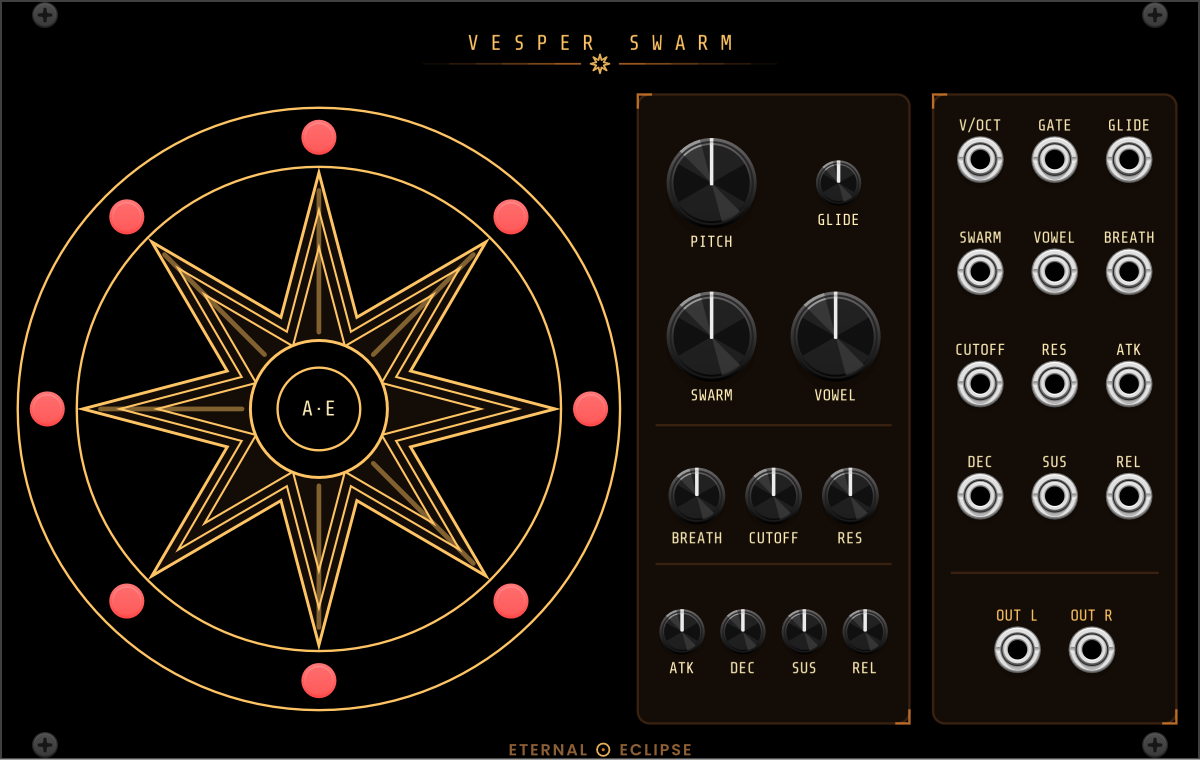
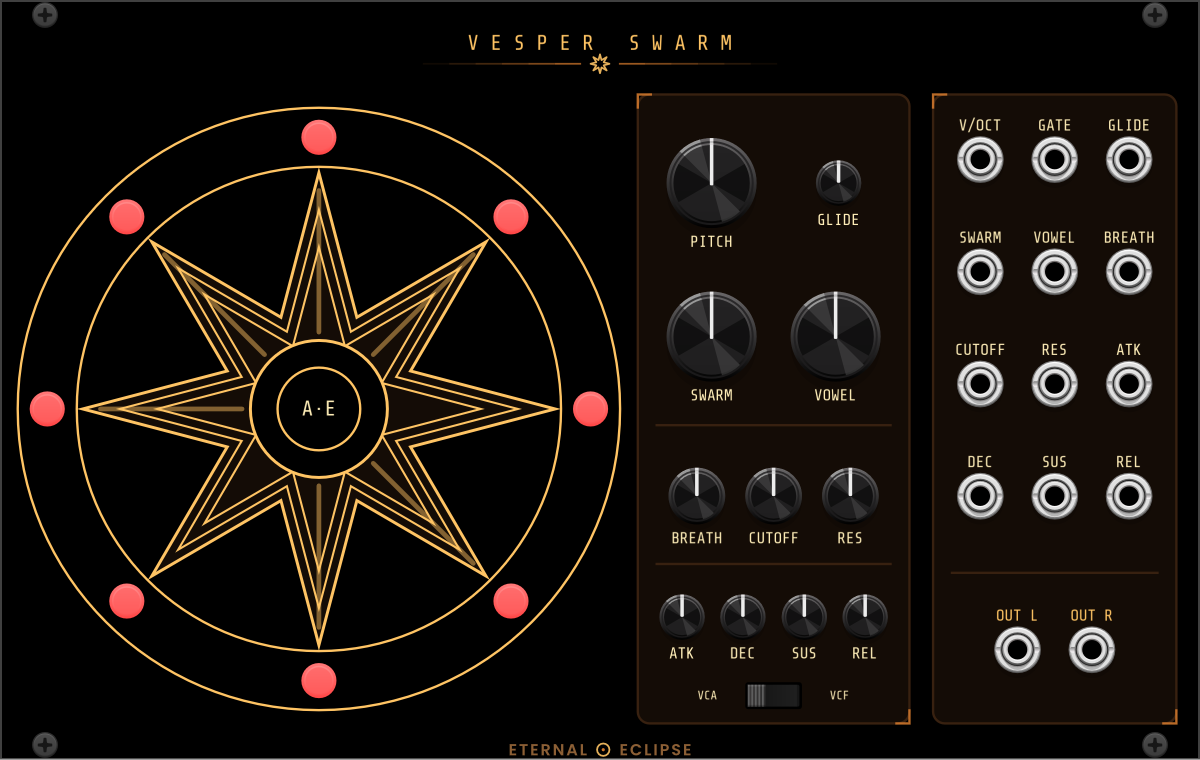
Vesper Swarm: envelope to VCA or VCF, attack to 60 s (OMN-106)
A VCA / VCF switch under the envelope row points the ADSR at the level, as
before, or at the filter instead: there the envelope lifts the cutoff by up
to seven octaves above the CUTOFF setting while the choir holds its level,
so a gate sweeps the filter over a drone. The attack knob now runs 1 ms to
60 s for slow swells (decay and release stay at 10 s). The harness checks
the filter mode opens on the gate, closes after it, and keeps sounding.

Changed region(s): [[0.5242, 0.7868, 0.74, 0.9382], [0.6783, 0.9079, 0.7092, 0.9382]]

diff --git a/src/VesperSwarm/VesperSwarm.cpp b/src/VesperSwarm/VesperSwarm.cpp
@@ -38,6 +38,7 @@ struct VesperSwarm : Module {
 		DECAY_PARAM,
 		SUSTAIN_PARAM,
 		RELEASE_PARAM,
+		ENV_DEST_PARAM,
 		ENUMS(VOICE_PARAMS, VOICES),
 		PARAMS_LEN
 	};
@@ -98,10 +99,12 @@ struct VesperSwarm : Module {
 		configParam(BREATH_PARAM, 0.f, 1.f, 0.2f, "Breath", "%", 0.f, 100.f);
 		configParam(CUTOFF_PARAM, 0.f, 1.f, 1.f, "Cutoff", " Hz", 1024.f, 20.f);
 		configParam(RES_PARAM, 0.f, 1.f, 0.f, "Resonance", "%", 0.f, 100.f);
-		configParam(ATTACK_PARAM, 0.f, 1.f, 0.55f, "Attack", " ms", 10000.f, 1.f);
+		configParam(ATTACK_PARAM, 0.f, 1.f, 0.455f, "Attack", " ms", 60000.f, 1.f);
 		configParam(DECAY_PARAM, 0.f, 1.f, 0.5f, "Decay", " ms", 10000.f, 1.f);
 		configParam(SUSTAIN_PARAM, 0.f, 1.f, 1.f, "Sustain", "%", 0.f, 100.f);
 		configParam(RELEASE_PARAM, 0.f, 1.f, 0.65f, "Release", " ms", 10000.f, 1.f);
+		configSwitch(ENV_DEST_PARAM, 0.f, 1.f, 0.f, "Envelope destination",
+			{"VCA: the envelope shapes the level", "VCF: the envelope opens the filter, the level stays up"});
 		for (int i = 0; i < VOICES; i++)
 			configSwitch(VOICE_PARAMS + i, 0.f, 1.f, 1.f, string::f("Singer %d", i + 1), {"Silent", "Singing"});
 
@@ -149,7 +152,10 @@ struct VesperSwarm : Module {
 		return vesper::clampf(v, lo, hi);
 	}
 
-	// Envelope knobs: 1 ms .. 10 s
+	// Envelope knobs: attack 1 ms .. 60 s, decay and release 1 ms .. 10 s
+	static float attackSeconds(float x) {
+		return 0.001f * std::pow(60000.f, x);
+	}
 	static float envSeconds(float x) {
 		return 0.001f * std::pow(10000.f, x);
 	}
@@ -192,21 +198,23 @@ struct VesperSwarm : Module {
 			+ vesper::clampf(inputs[CUTOFF_INPUT].getVoltage(), -10.f, 10.f);
 		prm.cutoff = vesper::clampf(20.f * std::exp2(cutoffExp), 20.f, std::min(20000.f, sr * 0.45f));
 		prm.res = knobCv(RES_PARAM, RES_INPUT, 0.f, 1.f);
-		prm.attack = envSeconds(knobCv(ATTACK_PARAM, ATTACK_INPUT, 0.f, 1.f));
+		prm.attack = attackSeconds(knobCv(ATTACK_PARAM, ATTACK_INPUT, 0.f, 1.f));
 		prm.decay = envSeconds(knobCv(DECAY_PARAM, DECAY_INPUT, 0.f, 1.f));
 		prm.sustain = knobCv(SUSTAIN_PARAM, SUSTAIN_INPUT, 0.f, 1.f);
 		prm.release = envSeconds(knobCv(RELEASE_PARAM, RELEASE_INPUT, 0.f, 1.f));
+		prm.envToFilter = params[ENV_DEST_PARAM].getValue() > 0.5f;
 
 		choir.setBlock(prm, sr);
 
-		float env = choir.env.level;
+		// With the envelope on the filter the level is always up
+		float amp = prm.envToFilter ? 1.f : choir.env.level;
 		dispVowel.store(prm.vowel, std::memory_order_relaxed);
 		dispMask.store(mask, std::memory_order_relaxed);
 		for (int i = 0; i < VOICES; i++) {
 			bool on = (mask >> i) & 1u;
-			float lvl = on ? vesper::clampf(choir.voicePeak[i] * env * 2.f, 0.f, 1.f) : 0.f;
+			float lvl = on ? vesper::clampf(choir.voicePeak[i] * amp * 2.f, 0.f, 1.f) : 0.f;
 			dispLevel[i].store(lvl, std::memory_order_relaxed);
-			lights[VOICE_LIGHTS + i].setBrightness(on ? (env > 0.01f ? 1.f : 0.25f) : 0.f);
+			lights[VOICE_LIGHTS + i].setBrightness(on ? (amp > 0.01f ? 1.f : 0.25f) : 0.f);
 		}
 	}
 
@@ -347,9 +355,12 @@ struct VesperSwarmWidget : ModuleWidget {
 		                          VesperSwarm::SUSTAIN_PARAM, VesperSwarm::RELEASE_PARAM};
 		static const char* EL[4] = {"ATK", "DEC", "SUS", "REL"};
 		for (int i = 0; i < 4; i++) {
-			addParam(createParamCentered<RoundSmallBlackKnob>(mm2px(Vec(EX[i], 107.f)), module, EP[i]));
-			addLabel(Vec(EX[i], 113.2f), EL[i]);
+			addParam(createParamCentered<RoundSmallBlackKnob>(mm2px(Vec(EX[i], 104.5f)), module, EP[i]));
+			addLabel(Vec(EX[i], 110.7f), EL[i]);
 		}
+		addParam(createParamCentered<eclipse::CKSSHorizontal>(mm2px(Vec(131.f, 117.8f)), module, VesperSwarm::ENV_DEST_PARAM));
+		addLabel(Vec(119.8f, 117.8f), "VCA", eclipse::FINE_SIZE);
+		addLabel(Vec(142.2f, 117.8f), "VCF", eclipse::FINE_SIZE);
 
 		// ===== Bay =====
 		addBayInput(BAY_C0, 0, "V/OCT", VesperSwarm::VOCT_INPUT, module);

diff --git a/src/VesperSwarm/dsp/Choir.hpp b/src/VesperSwarm/dsp/Choir.hpp
@@ -28,6 +28,7 @@ struct ChoirParams {
 	float cutoff = 20000.f; // Hz
 	float res = 0.f;        // 0..1
 	float attack = 0.15f, decay = 0.1f, sustain = 1.f, release = 0.4f; // s
+	bool envToFilter = false; // ADSR opens the filter instead of the amp
 };
 
 // Eight voices -> stereo mix -> 4-pole lowpass -> ADSR. Output in +/-1 units.
@@ -41,12 +42,15 @@ struct Choir {
 	corona::OtaFilter fltL, fltR;
 	uint8_t mask = 0xFF;
 	bool gate = true;
+	bool envToFilter = false;
 	float mixGain = 0.f;
 	float rawPeak = 0.f; // pre-clip peak since the last read
 
 	// Mix level: eight incoherent voices normalised by sqrt(count), then
 	// brought up to a healthy modular level before the safety clipper.
 	static constexpr float MAKEUP = 1.6f;
+	// Envelope -> filter: full envelope lifts the cutoff this many octaves
+	static constexpr float ENV_OCTAVES = 7.f;
 
 	Choir() {
 		for (int i = 0; i < VOICES; i++) {
@@ -90,7 +94,11 @@ struct Choir {
 		}
 		mixGain = active > 0 ? MAKEUP / std::sqrt((float)active) : 0.f;
 		env.setBlock(p.attack, p.decay, p.sustain, p.release, 1.f / sampleRate);
-		coeffs.update(p.cutoff, p.res, sampleRate);
+		envToFilter = p.envToFilter;
+		float cutoff = p.cutoff;
+		if (envToFilter)
+			cutoff = clampf(cutoff * std::exp2(ENV_OCTAVES * env.level), 20.f, sampleRate * 0.45f);
+		coeffs.update(cutoff, p.res, sampleRate);
 	}
 
 	void process(float& l, float& r) {
@@ -111,8 +119,10 @@ struct Choir {
 		sl = fltL.process(sl, coeffs, true);
 		sr = fltR.process(sr, coeffs, true);
 		float e = env.process(gate);
-		sl *= e;
-		sr *= e;
+		if (!envToFilter) {
+			sl *= e;
+			sr *= e;
+		}
 		float pk = std::fmax(std::fabs(sl), std::fabs(sr));
 		if (pk > rawPeak)
 			rawPeak = pk;

diff --git a/tools/vesper_harness.cpp b/tools/vesper_harness.cpp
@@ -152,6 +152,44 @@ int main() {
 		}
 	}
 
+	// ---- Envelope on the filter: level stays up, cutoff sweeps, stays finite ----
+	{
+		vesper::Choir choir;
+		vesper::ChoirParams p;
+		p.envToFilter = true;
+		p.cutoff = 80.f;
+		p.res = 0.8f;
+		p.attack = 0.05f;
+		p.decay = 0.1f;
+		p.sustain = 0.2f;
+		p.release = 0.1f;
+		float early = 0.f, late = 0.f;
+		int n = (int)(1.0f * RATE);
+		double accE = 0.0, accL = 0.0;
+		for (int i = 0; i < n; i++) {
+			p.gate = i < (int)(0.5f * RATE);
+			if (i % vesper::BLOCK == 0)
+				choir.setBlock(p, RATE);
+			float l, r;
+			choir.process(l, r);
+			if (!std::isfinite(l) || !std::isfinite(r)) {
+				std::printf("FAIL: non-finite with envelope on the filter\n");
+				return 1;
+			}
+			if (i >= (int)(0.04f * RATE) && i < (int)(0.08f * RATE))
+				accE += l * l;
+			if (i >= (int)(0.9f * RATE))
+				accL += l * l;
+		}
+		early = (float)std::sqrt(accE / (0.04f * RATE));
+		late = (float)std::sqrt(accL / (0.1f * RATE));
+		std::printf("env->vcf: open %.1f dB, closed (0.4 s after release) %.1f dB, still sounding\n", db(early), db(late));
+		if (late < 1e-4f || early < late) {
+			std::printf("FAIL: envelope on the filter\n");
+			return 1;
+		}
+	}
+
 	// ---- Voice toggling: no voices = silence, one voice = sound ----
 	{
 		vesper::Choir choir;

diff --git a/README.md b/README.md
@@ -227,8 +227,11 @@ Every voice is a band-limited glottal pulse through a five-formant soprano
 filter bank. VOWEL morphs the bank through A, E, I, O and U, with the current
 vowel shown in the heart of the star; BREATH mixes air into the throat. The
 mix passes a saturating 4-pole lowpass (CUTOFF, RES) and a gate-driven ADSR
-(ATK, DEC, SUS, REL). While GATE is unpatched the choir drones; patch a gate
-and the vibrato develops afresh on every note. GLIDE slews the pitch for the
+(ATK, DEC, SUS, REL) whose attack runs out to a full minute for slow swells.
+The VCA / VCF switch points the envelope at the level, or at the filter
+instead, where it lifts the cutoff by up to seven octaves while the choir
+holds its level. While GATE is unpatched the choir drones; patch a gate and
+the vibrato develops afresh on every note. GLIDE slews the pitch for the
 Swarmatron's ribbon glissandi. Pitch comes from V/OCT with PITCH as a coarse
 offset in semitones, and every other knob has a CV jack in the bay where 10 V
 sweeps its full range (CUTOFF tracks 1 V/oct). Outputs are stereo.

diff --git a/CHANGELOG.md b/CHANGELOG.md
@@ -9,7 +9,8 @@
   a few cents apart into a two-octave cluster, or into whole-number
   harmonics with the menu's Harmonic law. VOWEL morphs A E I O U,
   BREATH adds air, then a saturating 4-pole lowpass and a gate-driven
-  ADSR that drones unpatched. GLIDE for ribbon glissandi, V/OCT plus a
+  ADSR (attack to 60 s) that drones unpatched and can be pointed at the
+  filter instead of the level. GLIDE for ribbon glissandi, V/OCT plus a
   CV jack for every knob. The singers stand on the points of an
   eight-pointed star; a click silences or wakes one.
 
